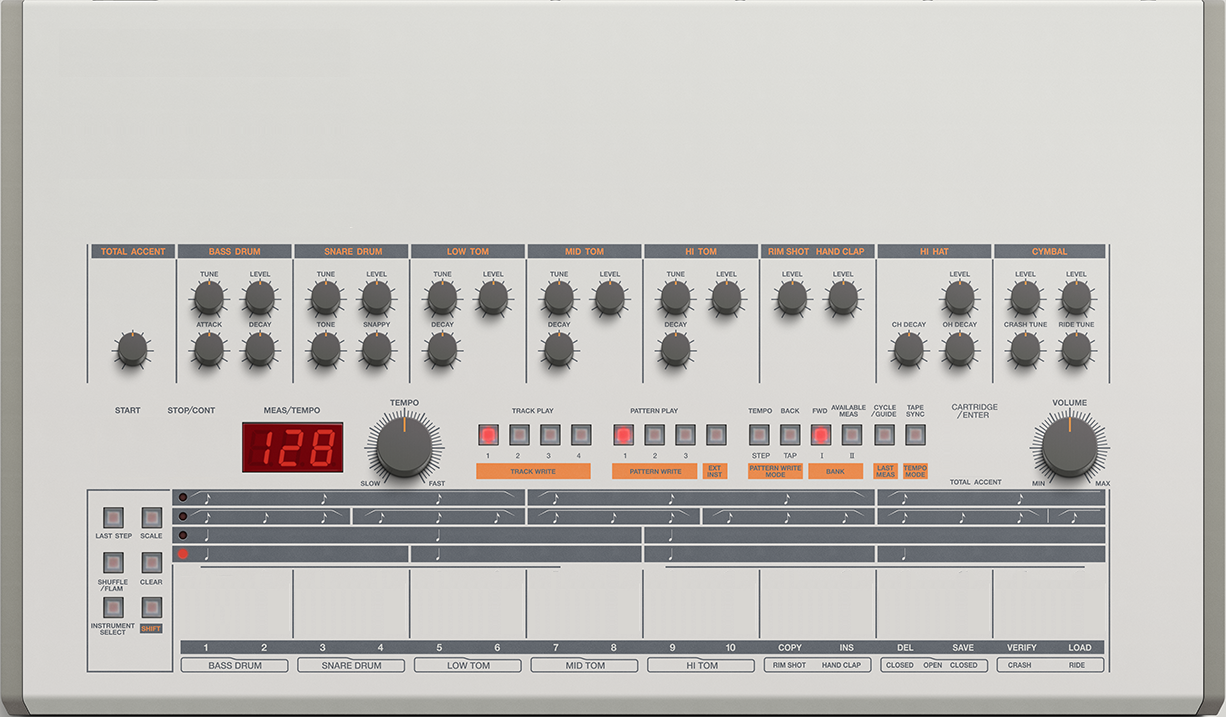
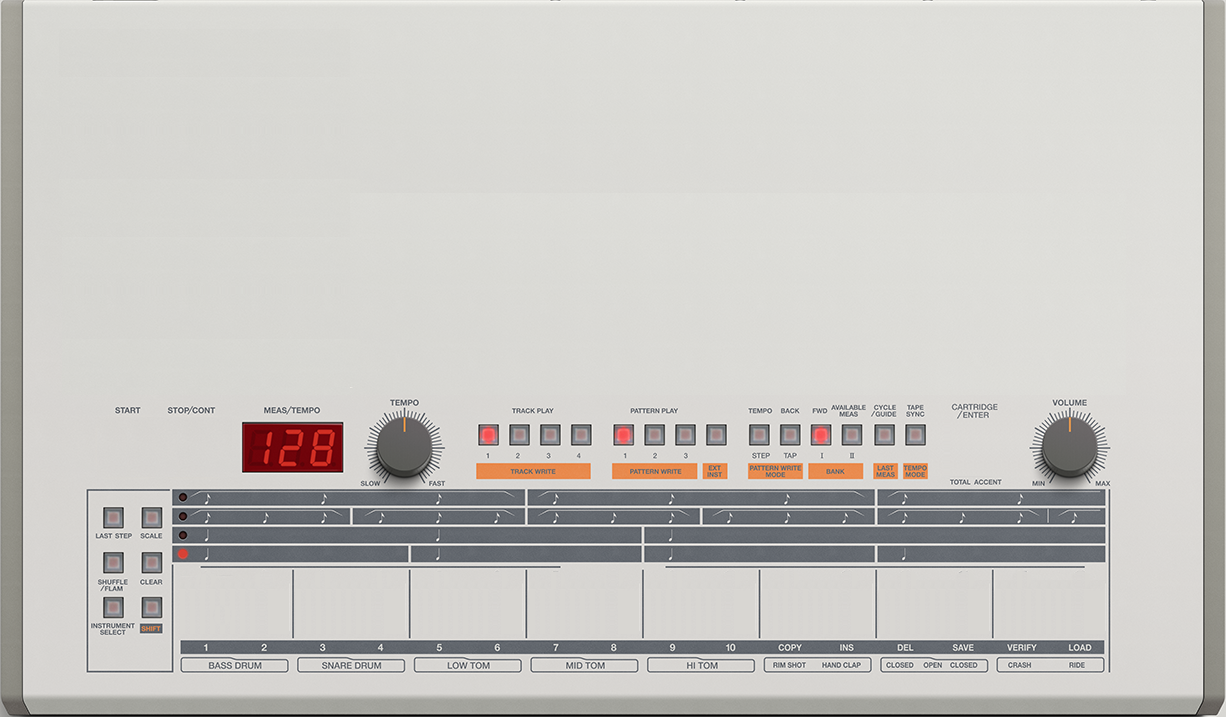
adds translucent buttons

Changed region(s): [[0.062, 0.3375, 0.9299, 0.5216], [0.093, 0.4603, 0.124, 0.5216]]

diff --git a/sass/buttons.sass b/sass/buttons.sass
@@ -1,19 +1,24 @@
+$color-led: #ee3b2e
+$color-led-glow: lighten($color-led, 25)
+$color-top: #bebbb6
+$color-right: #a7a39d
+$color-bottom: #6d6862
+$color-left: #a7a39d
+
 button.switch, button.trigger
-  $color-led: #ee3b2e
-  $color-led-glow: lighten($color-led, 25)
-  $color-top: #bebbb6
-  $color-right: #a7a39d
-  $color-bottom: #6d6862
-  $color-left: #a7a39d
 
   &.bright
     filter: sepia(20%) brightness(125%)
 
+  margin: 0
+  padding: 0
+  border: none
+  outline: none
+  appearance: none
   width: 48px
   height: 48px
   background: conic-gradient(at 24px 22px, $color-top 0deg 40deg, $color-right 50deg 132deg, $color-bottom 138deg 222deg, $color-left 228deg 310deg, $color-top 320deg)
   position: absolute
-  appearance: none
   box-shadow: 0 0 1px 2px rgba(black, 0.8) inset, 0 -1px 2px 0 white, 0 2px 2px 0 rgba(black, 0.4)
 
   &:active
@@ -56,3 +61,24 @@ button.switch, button.trigger
     background-color: #4c3b3b
     transition: all 50ms linear
     box-shadow: 0 0 0.5px 1px rgba(black, 0.2) inset, 0 1px 0.5px 0 rgba(white, 0.4)
+
+button.translucent-button
+  margin: 0
+  padding: 0
+  border: none
+  outline: none
+  appearance: none
+  width: 20px
+  height: 20px
+  display: flex
+  border-radius: 1px
+  background-repeat: no-repeat
+  background-image: url('../svg/translucent-button-normal.svg')
+  box-shadow: 0 0 1px 1px rgba(black, 0.6) inset, 0 0.5px 2px 0 rgba(white, 0.8), 0 0 1px 1px rgba(white, 0.4) inset
+  color: lighten(#ee3b2e, 10)
+
+  &:active
+    filter: brightness(96%)
+
+  &.active
+    background-image: url('../svg/translucent-button-active.svg')

diff --git a/typescript/main.ts b/typescript/main.ts
@@ -35,6 +35,11 @@ const showProgress = (() => {
             button.classList.toggle('active', index % 4 === 0)
         })
 
+    document.querySelectorAll('button.translucent-button')
+        .forEach((button: Element, index: number) => {
+            button.addEventListener('pointerdown', () => button.classList.toggle('active'))
+        })
+
     // prevent dragging entire document on mobile
     document.addEventListener('touchmove', (event: TouchEvent) => event.preventDefault(), {passive: false})
     document.addEventListener('dblclick', (event: Event) => event.preventDefault(), {passive: false})

diff --git a/index.html b/index.html
@@ -148,6 +148,7 @@
             </div>
             <hr>
         </div>
+        <button class="translucent-button" style="transform: translate(478px, 424px)"></button>
         <div class="step-button-group">
             <span>1</span>
             <span>2</span>

diff --git a/sass/main.sass b/sass/main.sass
@@ -108,6 +108,10 @@ main
       background-color: #686c72
 
       > button.func
+        margin: 0
+        padding: 0
+        border: none
+        outline: none
         appearance: none
         background: none
         height: 14px

diff --git a/sass/inputs.sass b/sass/inputs.sass
@@ -2,7 +2,7 @@
 
 $background: rgba(black, 0.3)
 
-button
+button.default
   color: rgba(white, 0.4)
   fill: currentColor
   font-size: $FONT_SIZE

diff --git a/sass/vars.sass b/sass/vars.sass
@@ -1,3 +1,3 @@
 $SIZE: 21px
 $FONT_SIZE: 11px
-$FONT-FAMILY: 'Open Sans', sans-serif
+$FONT-FAMILY: 'Roboto Bold', sans-serif
